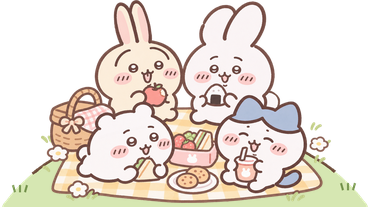
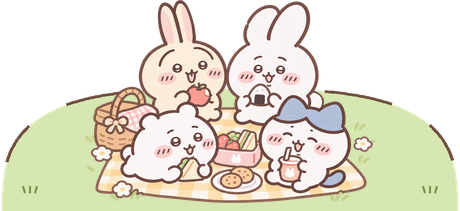
3.5.19: 말랑 친구들 달력 위젯 — 소풍 언덕을 넓고 평평하게 (꽃·풀이 공중에 뜨지 않게)
Claude-Session: https://claude.ai/code/session_019FAXvPvzQXgEKLusynfAwP

diff --git a/desktop/src/renderer/skins.css b/desktop/src/renderer/skins.css
@@ -499,7 +499,8 @@ html.sk-friends .panel .calcard, html.sk-friends .w { position: relative; overfl
 html.sk-friends .panel .calcard #grid, html.sk-friends .w #grid { position: relative; padding-bottom: 52px; }
 html.sk-friends .panel .calcard #grid::after, html.sk-friends .w #grid::after { content: ''; position: absolute; right: -12px; bottom: -10px; width: calc(74% + 12px); aspect-ratio: 400 / 195; pointer-events: none;
   background: url(skin/ck-picnic-hill.png) right bottom / 100% auto no-repeat; }
-html.sk-friends .w #grid::after { bottom: -8px; right: 0; width: 72%; aspect-ratio: auto; height: 52%; max-height: 120px; background: url(skin/ck-picnic-mound.png) right bottom / contain no-repeat; }
+html.sk-friends .w #grid { padding-bottom: 64px; }
+html.sk-friends .w #grid::after { bottom: -8px; right: -2px; width: 86%; aspect-ratio: 460 / 211; background: url(skin/ck-picnic-mound.png) right bottom / 100% auto no-repeat; }
 html.sk-friends .ckfr .ckf img { height: 50px; max-width: 100%; }
 /* 스킨 고르기 동그라미: 서 있는 말랑이처럼 키 큰 그림도 동그라미 안에 쏙 */
 .skin .swDraw img { max-height: 84%; object-fit: contain; }
